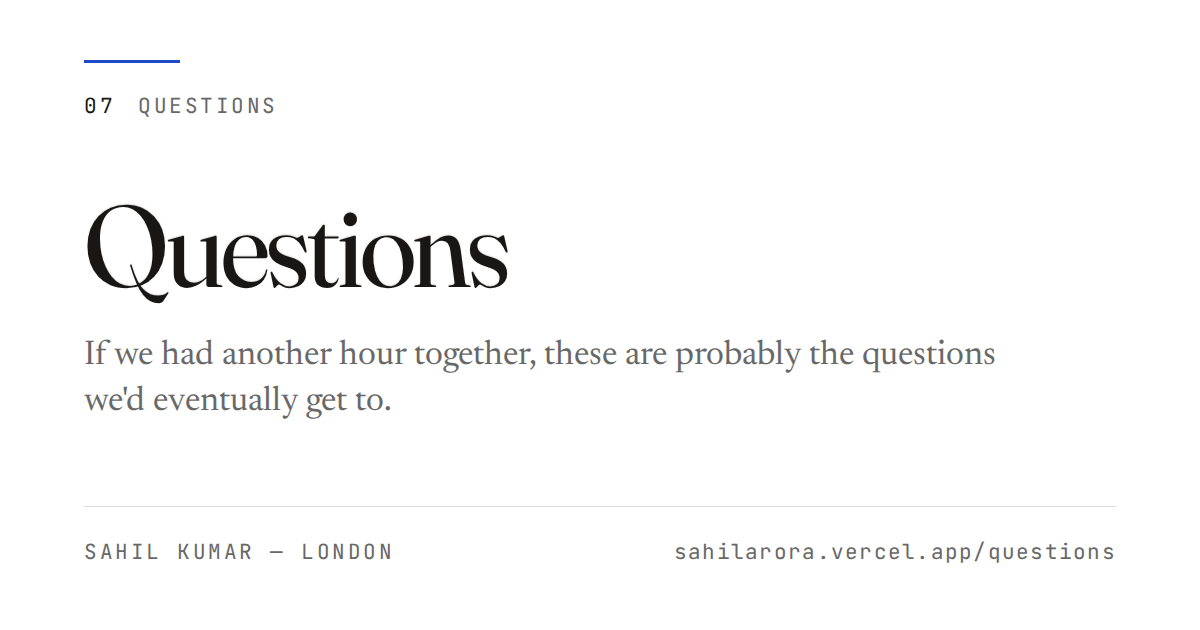
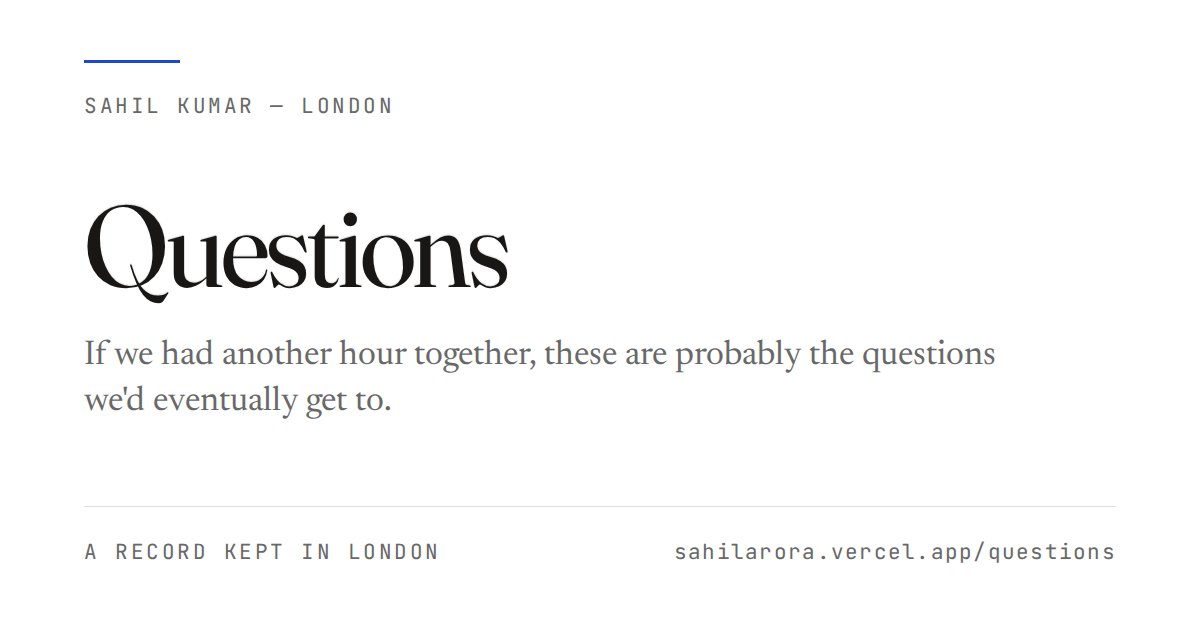
Writing becomes chapter 07; Questions moves to the back matter
Writing holds five finished, published pieces (two commissioned by Bayes).
Questions holds one answer and six open questions, and its own masthead
already called it "a held page, not a chapter". A reader moving through
the book gets more from Writing, so the two swap places. Nothing else in
the order moves.

- data/navigation.ts: Writing replaces Questions at 07. The navbar, Home's
  contents, the fore-edge rail, folios, PageTurn and the sitemap's chapter
  list all read this, so Media -> Writing -> Contact follows from it.
- Back matter is now Index, Questions, Errata: navbar mobile panel,
  colophon imprint row, sitemap, search index.
- Home contents: Writing's line is its own standfirst ("The pieces that
  were finished, and published elsewhere."), EN and Hinglish. Its mark is
  drawn from data/writingData.ts, one rule per published piece, so it
  can't drift from the list. Questions' mark goes with it.
- Writing's eyebrow was "Back matter", now false. It is "Offprints": the
  copies an author keeps of pieces published in someone else's pages.
- Share cards: new 07 Writing card; Questions keeps a card, unnumbered.
- Stale comments and README updated.

Checked: tsc, eslint, next build green (17 routes). In a browser: navbar,
contents, colophon, mobile menu and sitemap all show the new order;
PageTurn runs Media -> Writing -> Contact and Contact's Back goes to
Writing; /questions has no folio or PageTurn, like the other back matter;
[…]

Changed region(s): [[0.0617, 0.8444, 0.3083, 0.9048], [0.0617, 0.1508, 0.3392, 0.181], [0.3392, 0.8444, 0.37, 0.9048]]

diff --git a/components/home/PageMark.tsx b/components/home/PageMark.tsx
@@ -1,3 +1,5 @@
+import { writing } from '@/data/writingData';
+
 /**
  * PageMark — eight marks, one per destination.
  *
@@ -61,9 +63,7 @@ function Mark({ children }: { children: React.ReactNode }) {
 
 /**
  * Keyed by route, not by label — `data/navigation.ts` owns the labels and they
- * are allowed to change wording without silently dropping a mark. The route
- * is `/questions`; see
- * the note in navigation.ts.
+ * are allowed to change wording without silently dropping a mark.
  */
 export function PageMark({ href }: { href: string }) {
   switch (href) {
@@ -144,22 +144,32 @@ export function PageMark({ href }: { href: string }) {
         </Mark>
       );
 
-    /* Questions — one answered, six not. This is not a metaphor: the page
-       currently holds one written answer and six questions still open, and
-       the mark counts them. If that changes, this mark becomes false and
-       should be redrawn — the same contract Fig. 01's caption carries. */
-    case '/questions':
+    /* Writing — the offprints. One full-strength rule per published piece,
+       each as long as that piece's title is relative to the longest, so the
+       mark is the list at 32px. It is drawn from data/writingData.ts rather
+       than by hand: a sixth piece adds a sixth rule, and the mark cannot go
+       false the way a hand count can. Each rule is drawn whole — none of
+       Questions' short, faded answer lines — because every one of these got
+       to the end; at Media's 0.65 weight, because five hairlines 3.5px apart
+       read heavier than any single mark in the column.
+       (Questions' mark went with it to the back matter in September 2026.) */
+    case '/writing': {
+      const pieces = writing;
+      const longest = Math.max(...pieces.map((p) => p.title.length));
+      const gap = 14 / Math.max(pieces.length - 1, 1);
       return (
         <Mark>
-          <path {...STROKE} d="M2 3 H30" />
-          <path {...STROKE} d="M2 7 H12" strokeOpacity={0.4} />
-          <path {...STROKE} d="M16 7 H24" strokeOpacity={0.4} />
-          <path {...STROKE} d="M2 11 H10" strokeOpacity={0.4} />
-          <path {...STROKE} d="M14 11 H26" strokeOpacity={0.4} />
-          <path {...STROKE} d="M2 15 H14" strokeOpacity={0.4} />
-          <path {...STROKE} d="M18 15 H28" strokeOpacity={0.4} />
+          {pieces.map((piece, i) => (
+            <path
+              key={piece.href}
+              {...STROKE}
+              strokeOpacity={0.65}
+              d={`M2 ${3 + i * gap} H${Math.round(10 + (20 * piece.title.length) / longest)}`}
+            />
+          ))}
         </Mark>
       );
+    }
 
     /* Contact — ruled letterhead. Full-width rules, each with a short ink tick
        at its left end: exactly the motif Imprint sets the channels on, where

diff --git a/app/writing/WritingChapter.tsx b/app/writing/WritingChapter.tsx
@@ -15,7 +15,9 @@ import { writing, writingIntro } from '@/data/writingData';
 import { writingIntroHi } from '@/data/hinglish';
 import { useVariant } from '@/hooks/use-reading-mode';
 /**
- * Writing — back matter, beside the index and the errata leaf.
+ * Writing — chapter 07 since September 2026. It was back matter, beside the
+ * index and the errata leaf, and swapped places with Questions (see
+ * data/navigation.ts).
  *
  * The Now page's own list of what is unfinished on this site had "/writing does
  * not exist yet" on it since 10 August. It exists now, and that line has been
@@ -36,9 +38,9 @@ import { useVariant } from '@/hooks/use-reading-mode';
  * Every link leaves the site, which is stated once at the top rather than
  * five times in five little icons.
  *
- * NOT IN THE NAVIGATION, for the same reason /a-z and /errata are not: the book
- * is nine chapters and this is back matter. It sits in the imprint at the foot
- * of every page, with the other two.
+ * IN THE NAVIGATION as chapter 07, so it gets the running-head folio, the
+ * fore-edge rail and a PageTurn to Contact from the shared chrome — nothing
+ * here renders those itself.
  *
  * Server component. No motion, no reveal-on-scroll — the page is five links and
  * it should be usable the instant it paints.

diff --git a/data/navigation.ts b/data/navigation.ts
@@ -10,6 +10,12 @@
  * If the order needs to change, change it here and it changes everywhere.
  * Do not re-declare a list of pages in a component.
  *
+ * September 2026: Writing took chapter 07 and Questions moved to the back
+ * matter. Writing holds five finished, published pieces; Questions holds one
+ * answer and six open questions, and its own masthead already called it "a
+ * held page, not a chapter". A reader in the sequence gets more from the
+ * first. Nothing else in the order moved.
+ *
  * The route and the label now agree: `/questions`, "Questions". They did not
  * for a long time — the directory was `app/question` and the page called
  * itself Questions, so every link, index entry and errata reference had to
@@ -49,7 +55,7 @@ export const navigation: Destination[] = [
   { href: '/projects', label: 'Projects' },
   { href: '/experience', label: 'Experience' },
   { href: '/media', label: 'Media' },
-  { href: '/questions', label: 'Questions' },
+  { href: '/writing', label: 'Writing' },
   { href: '/contact', label: 'Contact' },
 ];
 

diff --git a/components/questions/QuestionsExperience.tsx b/components/questions/QuestionsExperience.tsx
@@ -59,7 +59,8 @@ export default function QuestionsExperience({ questions, intro, closing }: Props
         The page used to open on a visually hidden <h1> and roughly three
         hundred pixels of empty paper, then an italic sentence floating in the
         middle of the screen. The titlelessness was deliberate and the instinct
-        behind it was right — this page is a held page, not a chapter — but the
+        behind it was right — this page is a held page, not a chapter (and since
+        September 2026 it is literally back matter, beside Index and Errata) — but the
         result on arrival was indistinguishable from a page that had failed to
         load its heading.
 

diff --git a/data/hinglish/home.hi.ts b/data/hinglish/home.hi.ts
@@ -37,7 +37,8 @@ export const homeContentHi = {
     '/experience': 'Zyadatar maine chuna nahi tha.',
     '/media': 'Haazir hone ka saboot, portfolio nahi.',
     '/about': 'Patterns, ghatnaayein nahi.',
-    '/questions': 'Agar humein ek ghanta aur mil jaata.',
+    // backmatter.hi.ts → writingIntroHi.standfirst
+    '/writing': 'Woh tukde jo poore hue, aur kahin aur chhape.',
     /* Deliberately empty in both readings — Now's opening line IS the season
        line, and the Currently strip below already carries it verbatim. */
     '/now': '',

diff --git a/data/homeContent.ts b/data/homeContent.ts
@@ -89,8 +89,8 @@ export const homeContent = {
     // data/profileContent.ts → the About standfirst
     '/about': 'The patterns, not the events.',
 
-    // app/questions/page.tsx → the chapter standfirst
-    '/questions': 'If we had another hour together.',
+    // data/writingData.ts → writingIntro.standfirst
+    '/writing': 'The pieces that were finished, and published elsewhere.',
 
     // Deliberately empty. Now's opening line IS the season line, and the
     // Currently strip four rows below already carries it verbatim. Printing it

diff --git a/data/writingData.ts b/data/writingData.ts
@@ -52,7 +52,11 @@ export interface WritingPiece {
 }
 
 export const writingIntro = {
-  eyebrow: 'Back matter',
+  /** An offprint is the copy of an article an author keeps when the piece
+   *  itself was published in someone else's pages — which is exactly what
+   *  every item on this page is. It replaced 'Back matter' when Writing
+   *  became chapter 07. */
+  eyebrow: 'Offprints',
   title: 'Writing',
   standfirst: 'The pieces that were finished, and published elsewhere.',
   body: [

diff --git a/components/global/Colophon.tsx b/components/global/Colophon.tsx
@@ -91,10 +91,10 @@ export default function Colophon() {
               </li>
               <li>
                 <Link
-                  href="/writing"
+                  href="/questions"
                   className="inline-flex min-h-11 items-center transition-colors duration-300 ease-editorial hover:text-through-line"
                 >
-                  Writing
+                  Questions
                 </Link>
               </li>
               <li>

diff --git a/data/searchIndex.ts b/data/searchIndex.ts
@@ -65,7 +65,7 @@ const chapters: SearchRecord[] = destinations.map((d) => ({
 
 const backMatter: SearchRecord[] = [
   { title: "Index", context: "Back matter", kind: "Chapter", href: "/a-z" },
-  { title: "Writing", context: "Back matter", kind: "Chapter", href: "/writing" },
+  { title: "Questions", context: "Back matter", kind: "Chapter", href: "/questions" },
   { title: "Errata", context: "Back matter", kind: "Chapter", href: "/errata" },
 ];
 

diff --git a/app/sitemap.ts b/app/sitemap.ts
@@ -19,7 +19,7 @@ import { navigation } from '@/data/navigation';
 import { SITE_URL } from '@/lib/seo';
 
 /** Back matter: reachable, indexable, but not part of the reading order. */
-const BACK_MATTER = ['/a-z', '/writing', '/errata'];
+const BACK_MATTER = ['/a-z', '/questions', '/errata'];
 
 export default function sitemap(): MetadataRoute.Sitemap {
   const chapters = navigation.map((item) => ({

diff --git a/lib/seo.ts b/lib/seo.ts
@@ -69,7 +69,7 @@ const TITLE_SUFFIX = 'Sahil Kumar';
  *
  * `cardFor` is keyed by the same `path` every page already passes to
  * `pageMetadata`, so no page has to remember which card is its own. A route
- * with no card of its own (/writing, /errata, /a-z) gets the title page.
+ * with no card of its own (/errata, /a-z) gets the title page.
  */
 interface CardEntry {
   path: string;

diff --git a/components/global/Navbar.tsx b/components/global/Navbar.tsx
@@ -76,7 +76,7 @@ const CV_HREF = `/documents/${contactInfo.resume.fileName}`;
  *  find the Index page that exists to save them scrolling a whole chapter. */
 const BACK_MATTER = [
   { href: "/a-z", label: "Index" },
-  { href: "/writing", label: "Writing" },
+  { href: "/questions", label: "Questions" },
   { href: "/errata", label: "Errata" },
 ];
 
